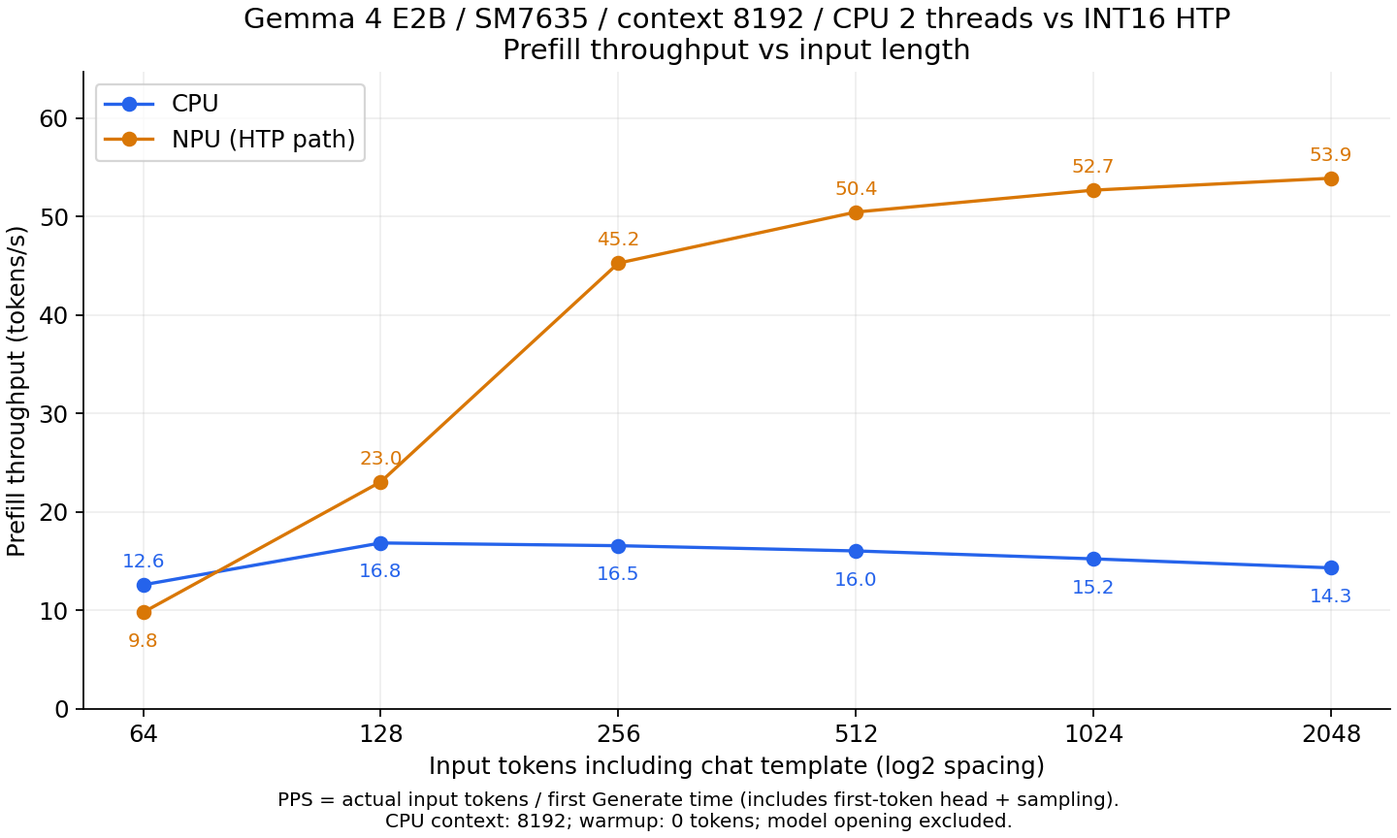
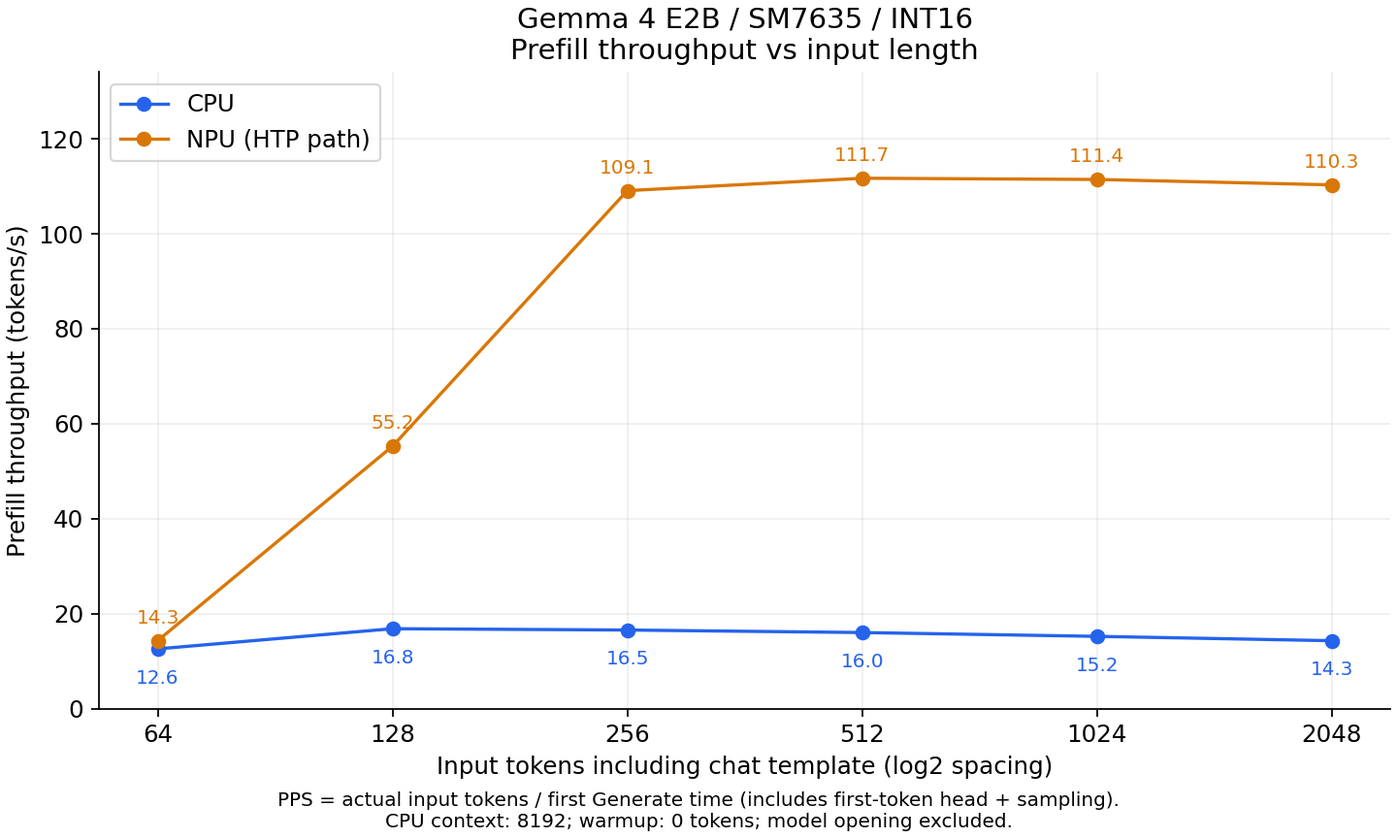
Update QNN benchmark for the PLE frontend release
Reflect the 2026-09-16 production package, which runs the dense PLE
frontend inside each QNN transformer graph: new decode, prefill, VLM and
audio numbers with the regenerated charts, and the prefill speedup in the
overview raised to up to 19x.

Refresh the published model sizes from the re-uploaded packages, note the
PLE placement in the architecture section, and drop the 8K context
section, which was not remeasured for this package.

diff --git a/llm/qnn.html b/llm/qnn.html
@@ -91,7 +91,7 @@ j=d.createElement(s),dl=l!='dataLayer'?'&l='+l:'';j.async=true;j.src=
   <div class="guide-content">
 
     <h2>概要</h2>
-    <p>ailia LLM 1.5.0 以降は Qualcomm SoC の NPU（Hexagon）を使用した高速推論に対応しています。NPU 向けには、llama.cpp とは異なるアイリア社独自の実装を搭載しており、Android 端末上で Prefill を最大 14 倍高速化できます（Snapdragon 8+ Gen 1、2,048 トークン入力時の同端末 CPU 比）。テキストの LLM だけでなく、画像を入力する VLM（Vision Language Model）や音声入力にも対応し、NPU で処理できます。</p>
+    <p>ailia LLM 1.5.0 以降は Qualcomm SoC の NPU（Hexagon）を使用した高速推論に対応しています。NPU 向けには、llama.cpp とは異なるアイリア社独自の実装を搭載しており、Android 端末上で Prefill を最大 19 倍高速化できます（Snapdragon 8+ Gen 1、2,048 トークン入力時の同端末 CPU 比）。テキストの LLM だけでなく、画像を入力する VLM（Vision Language Model）や音声入力にも対応し、NPU で処理できます。</p>
     <p>QNN（Qualcomm AI Engine Direct）は Qualcomm が提供するバックエンド API です。ailia LLMでは、llama.cppのモデル形式であるGGUFを、QNNで実行可能な形式に変換することで、NPUでの推論を実現しています。</p>
     <div class="note">
       <strong>注意:</strong> QNN バックエンドは ailia LLM 1.5.0 以降で利用できます。
@@ -157,10 +157,10 @@ j=d.createElement(s),dl=l!='dataLayer'?'&l='+l:'';j.async=true;j.src=
     <div class="table-wrap">
     <table class="version-table">
       <tr><th>SoC</th><th>端末の例</th><th>ファイル</th><th>内容</th><th>サイズ</th></tr>
-      <tr><td rowspan="2">sm8475<br>（Hexagon v69 / FP16）</td><td rowspan="2">Snapdragon 8+ Gen 1</td><td><a href="https://storage.googleapis.com/ailia-models/gemma/qnn/v1.5.0/gemma4-e2b-sm8475.qnn">gemma4-e2b-sm8475.qnn</a></td><td>テキストモデル（Prefill + Decode）</td><td class="num">3.62 GB</td></tr>
+      <tr><td rowspan="2">sm8475<br>（Hexagon v69 / FP16）</td><td rowspan="2">Snapdragon 8+ Gen 1</td><td><a href="https://storage.googleapis.com/ailia-models/gemma/qnn/v1.5.0/gemma4-e2b-sm8475.qnn">gemma4-e2b-sm8475.qnn</a></td><td>テキストモデル（Prefill + Decode）</td><td class="num">3.60 GB</td></tr>
       <tr><td><a href="https://storage.googleapis.com/ailia-models/gemma/qnn/v1.5.0/gemma4-e2b-sm8475-mmproj.qnn">gemma4-e2b-sm8475-mmproj.qnn</a></td><td>画像 / 音声エンコーダ（mmproj）</td><td class="num">1.11 GB</td></tr>
-      <tr><td rowspan="2">sm7635<br>（Hexagon v73 / Int16）</td><td rowspan="2">Snapdragon 7s Gen 3</td><td><a href="https://storage.googleapis.com/ailia-models/gemma/qnn/v1.5.0/gemma4-e2b-sm7635.qnn">gemma4-e2b-sm7635.qnn</a></td><td>テキストモデル（Prefill + Decode）</td><td class="num">3.60 GB</td></tr>
-      <tr><td><a href="https://storage.googleapis.com/ailia-models/gemma/qnn/v1.5.0/gemma4-e2b-sm7635-mmproj.qnn">gemma4-e2b-sm7635-mmproj.qnn</a></td><td>画像 / 音声エンコーダ（mmproj）</td><td class="num">0.73 GB</td></tr>
+      <tr><td rowspan="2">sm7635<br>（Hexagon v73 / Int16）</td><td rowspan="2">Snapdragon 7s Gen 3</td><td><a href="https://storage.googleapis.com/ailia-models/gemma/qnn/v1.5.0/gemma4-e2b-sm7635.qnn">gemma4-e2b-sm7635.qnn</a></td><td>テキストモデル（Prefill + Decode）</td><td class="num">3.57 GB</td></tr>
+      <tr><td><a href="https://storage.googleapis.com/ailia-models/gemma/qnn/v1.5.0/gemma4-e2b-sm7635-mmproj.qnn">gemma4-e2b-sm7635-mmproj.qnn</a></td><td>画像 / 音声エンコーダ（mmproj）</td><td class="num">0.63 GB</td></tr>
     </table>
     </div>
     <p>いずれも ailia LLM 1.5.0（QAIRT 2.47.0.260601）向けで、コンテキスト長は 8192、AR-256 / AR-1 構成です。</p>
@@ -205,7 +205,7 @@ llm.openMultimodalProjectorFile(mmprojQnnPath) // VLM のみ</code></pre>
     <p><a href="https://github.com/ailia-ai/ailia-models-kotlin/releases/tag/v260720" target="_blank">https://github.com/ailia-ai/ailia-models-kotlin/releases/tag/v260720（TBD）</a></p>
 
     <h2>アーキテクチャ</h2>
-    <p>ailia LLM は QNN Model を mmap で読み込み、QNN Context を復元して Hexagon NPU（HTP）上で実行します。Prefill は固定長の AR-N グラフで処理し、プロンプトが AR の倍数でない場合は最後のスライスをパディングします。Decode は同じ Context 内の AR-1 グラフで処理し、Prefill 後の KV キャッシュのコピーは発生しません。VLM では画像のパッチ化と位置埋め込みを CPU で行い、16 層の Vision Transformer からプーリング、プロジェクションまでを 1 つの QNN グラフで実行します。音声入力には Audio グラフを使用し、音声エンコーダを NPU で実行します。</p>
+    <p>ailia LLM は QNN Model を mmap で読み込み、QNN Context を復元して Hexagon NPU（HTP）上で実行します。Prefill は固定長の AR-N グラフで処理し、プロンプトが AR の倍数でない場合は最後のスライスをパディングします。Decode は同じ Context 内の AR-1 グラフで処理し、Prefill 後の KV キャッシュのコピーは発生しません。VLM では画像のパッチ化と位置埋め込みを CPU で行い、16 層の Vision Transformer からプーリング、プロジェクションまでを 1 つの QNN グラフで実行します。音声入力には Audio グラフを使用し、音声エンコーダを NPU で実行します。また、層別トークン埋め込み（PLE）のフロントエンドも各 Transformer グラフ内で実行し、CPU 側にはトークン行の参照とメディア埋め込みの差し替えのみを残しています。これにより、入力処理を CPU で行う場合に比べて Int16 モデルの Prefill が改善します。</p>
     <div class="arch-side">
       <div class="arch-group">
         <div class="arch-group-title">QNN Model（.qnn）<small>SoC 固有・自己完結のモデルファイル</small></div>
@@ -235,7 +235,7 @@ llm.openMultimodalProjectorFile(mmprojQnnPath) // VLM のみ</code></pre>
     </div>
 
     <h2>ベンチマーク</h2>
-    <p>Gemma 4 E2B を 2 機種で測定した結果です。Snapdragon 8+ Gen 1（SM8475 / Hexagon v69、ASUS AI2202）は FP16 モデル、Snapdragon 7s Gen 3（SM7635 / Hexagon v73）は Int16 モデルを使用しています。いずれも QAIRT 2.47.0.260601、コンテキスト長 8192、Q4_0 入力、AR-256 / AR-1 構成です。CPU は同じ端末上の llama.cpp 互換の CPU 実装（GGUF、2 スレッド）を使用しています。</p>
+    <p>Gemma 4 E2B を 2 機種で測定した結果です。Snapdragon 8+ Gen 1（SM8475 / Hexagon v69、ASUS AI2202）は FP16 モデル、Snapdragon 7s Gen 3（SM7635 / Hexagon v73）は Int16 モデルを使用しています。いずれも QAIRT 2.47.0.260601、コンテキスト長 8192、Q4_0 入力、AR-256 / AR-1 構成です。CPU は同じ端末上の llama.cpp 互換の CPU 実装（GGUF、2 スレッド）を使用しています。NPU の値は 2026-09-16 の量産パッケージ（PLE フロントエンドを NPU 側で実行）での測定です。</p>
     <div class="note">
       <strong>注意:</strong> 2 機種は SoC も量子化方式も異なるため、両者の差を量子化方式だけの差とみなすことはできません。各測定は 1 試行の値であり、複数回の平均ではありません。
     </div>
@@ -245,8 +245,8 @@ llm.openMultimodalProjectorFile(mmprojQnnPath) // VLM のみ</code></pre>
     <div class="table-wrap">
     <table class="version-table">
       <tr><th>端末</th><th>モデル</th><th>CPU</th><th>NPU（QNN）</th><th>NPU / CPU</th></tr>
-      <tr><td>SM8475（Hexagon v69）</td><td>FP16</td><td class="num">8.340 tokens/s</td><td class="num">7.536 tokens/s</td><td class="num">0.90 倍</td></tr>
-      <tr><td>SM7635（Hexagon v73）</td><td>Int16</td><td class="num">7.851 tokens/s</td><td class="num">6.473 tokens/s</td><td class="num">0.82 倍</td></tr>
+      <tr><td>SM8475（Hexagon v69）</td><td>FP16</td><td class="num">8.340 tokens/s</td><td class="num">7.843 tokens/s</td><td class="num">0.94 倍</td></tr>
+      <tr><td>SM7635（Hexagon v73）</td><td>Int16</td><td class="num">7.851 tokens/s</td><td class="num">6.883 tokens/s</td><td class="num">0.88 倍</td></tr>
     </table>
     </div>
     <p>この条件では、いずれの端末でも Decode は CPU の方が高速です。Decode は 1 トークンずつ処理するため重みの読み出しが支配的で、NPU の並列演算性能を活かしにくいことによります。</p>
@@ -265,18 +265,18 @@ llm.openMultimodalProjectorFile(mmprojQnnPath) // VLM のみ</code></pre>
     <div class="table-wrap">
     <table class="version-table">
       <tr><th>入力トークン数</th><th>SM8475 CPU</th><th>SM8475 NPU（FP16）</th><th>SM7635 CPU</th><th>SM7635 NPU（Int16）</th></tr>
-      <tr><td class="num">64</td><td class="num">14.870</td><td class="num">17.210</td><td class="num">12.571</td><td class="num">9.775</td></tr>
-      <tr><td class="num">128</td><td class="num">21.505</td><td class="num">72.384</td><td class="num">16.822</td><td class="num">23.033</td></tr>
-      <tr><td class="num">256</td><td class="num">21.214</td><td class="num">142.785</td><td class="num">16.544</td><td class="num">45.248</td></tr>
-      <tr><td class="num">512</td><td class="num">20.454</td><td class="num">188.090</td><td class="num">16.013</td><td class="num">50.435</td></tr>
-      <tr><td class="num">1024</td><td class="num">18.662</td><td class="num">206.170</td><td class="num">15.208</td><td class="num">52.660</td></tr>
-      <tr><td class="num">2048</td><td class="num">14.549</td><td class="num">214.491</td><td class="num">14.295</td><td class="num">53.870</td></tr>
+      <tr><td class="num">64</td><td class="num">14.870</td><td class="num">23.978</td><td class="num">12.571</td><td class="num">14.296</td></tr>
+      <tr><td class="num">128</td><td class="num">21.505</td><td class="num">147.489</td><td class="num">16.822</td><td class="num">55.247</td></tr>
+      <tr><td class="num">256</td><td class="num">21.214</td><td class="num">265.230</td><td class="num">16.544</td><td class="num">109.083</td></tr>
+      <tr><td class="num">512</td><td class="num">20.454</td><td class="num">286.695</td><td class="num">16.013</td><td class="num">111.699</td></tr>
+      <tr><td class="num">1024</td><td class="num">18.662</td><td class="num">293.811</td><td class="num">15.208</td><td class="num">111.440</td></tr>
+      <tr><td class="num">2048</td><td class="num">14.549</td><td class="num">286.029</td><td class="num">14.295</td><td class="num">110.301</td></tr>
     </table>
     </div>
     <ul>
       <li>Prefill のスループットは <code>実入力トークン数 / 最初の生成呼び出し時間</code> です。ウォームアップは行っておらず、初回の遅延を含みます。</li>
       <li>短い入力から長い入力へ順に測定しているため、64 トークンの結果は後続の条件と初期状態が異なります。</li>
-      <li>2,048 トークン入力では、SM8475 で CPU の約 14.7 倍、SM7635 で約 3.8 倍のスループットです。</li>
+      <li>2,048 トークン入力では、SM8475 で CPU の約 19.7 倍、SM7635 で約 7.7 倍のスループットです。</li>
     </ul>
 
     <figure class="bench-figure">
@@ -289,42 +289,30 @@ llm.openMultimodalProjectorFile(mmprojQnnPath) // VLM のみ</code></pre>
     </figure>
 
     <h3>VLM（画像入力）の応答時間</h3>
-    <p>同一の 768x768 画像 10 枚（画像 256 + テキスト 62 = 318 入力トークン）の中央値です。TTFT は画像エンコーダを含むプロンプト設定と最初の生成呼び出しの合計で、モデルのオープンは含みません。CPU 側は Decoder が 2 スレッド、画像エンコーダは既定のコア数で動作しています。</p>
+    <p>同一の 768x768 画像 10 枚（画像 256 + テキスト 62 = 318 入力トークン、各 100 トークン出力）の中央値です。TTFT は画像エンコーダを含むプロンプト設定と最初の生成呼び出しの合計で、モデルのオープンは含みません。CPU 側は Decoder が 2 スレッド、画像エンコーダは既定のコア数で動作しています。</p>
     <div class="table-wrap">
     <table class="version-table">
       <tr><th>端末・経路</th><th>TTFT（中央値）</th><th>Decode（中央値）</th></tr>
       <tr><td>SM8475 CPU</td><td class="num">137.37 秒</td><td class="num">6.60 tokens/s</td></tr>
-      <tr><td>SM8475 NPU（FP16）</td><td class="num">9.51 秒</td><td class="num">6.91 tokens/s</td></tr>
+      <tr><td>SM8475 NPU（FP16）</td><td class="num">6.57 秒</td><td class="num">7.69 tokens/s</td></tr>
       <tr><td>SM7635 CPU</td><td class="num">105.18 秒</td><td class="num">7.93 tokens/s</td></tr>
-      <tr><td>SM7635 NPU（Int16）</td><td class="num">25.82 秒</td><td class="num">6.20 tokens/s</td></tr>
+      <tr><td>SM7635 NPU（Int16）</td><td class="num">9.83 秒</td><td class="num">6.98 tokens/s</td></tr>
     </table>
     </div>
-    <p>画像入力の TTFT は、SM8475 で約 14.4 倍、SM7635 で約 4.1 倍短縮されます。各画像 1 試行の測定であり、CPU と NPU は別試行のため厳密な同時条件の A/B ではありません。</p>
+    <p>画像入力の TTFT は、SM8475 で約 20.9 倍、SM7635 で約 10.7 倍短縮されます。各画像 1 試行の測定であり、CPU と NPU は別試行のため厳密な同時条件の A/B ではありません。CPU の値は 2026-09-13 の測定で、CPU 実行経路は変更していません。</p>
 
     <h3>音声入力の応答時間</h3>
-    <p>FLEURS の 10 録音（5 言語 各 2 件）の中央値です。TTFT は音声エンコーダを含むプロンプト設定と最初の生成呼び出しの合計で、モデルのオープンは含みません。CPU 側は Decoder が 2 スレッド、音声エンコーダは既定のコア数で動作しています。</p>
+    <p>FLEURS の 10 録音（5 言語 各 2 件、自然な EOS まで生成し上限 256 トークン）の中央値です。TTFT は音声エンコーダを含むプロンプト設定と最初の生成呼び出しの合計で、モデルのオープンは含みません。CPU 側は Decoder が 2 スレッド、音声エンコーダは既定のコア数で動作しています。</p>
     <div class="table-wrap">
     <table class="version-table">
       <tr><th>端末・経路</th><th>TTFT（中央値）</th><th>Decode（中央値）</th><th>出力トークン数</th></tr>
       <tr><td>SM8475 CPU</td><td class="num">49.32 秒</td><td class="num">7.68 tokens/s</td><td class="num">21〜91</td></tr>
-      <tr><td>SM8475 NPU（FP16）</td><td class="num">8.37 秒</td><td class="num">6.86 tokens/s</td><td class="num">21〜60</td></tr>
+      <tr><td>SM8475 NPU（FP16）</td><td class="num">8.08 秒</td><td class="num">7.19 tokens/s</td><td class="num">21〜60</td></tr>
       <tr><td>SM7635 CPU</td><td class="num">45.65 秒</td><td class="num">7.92 tokens/s</td><td class="num">21〜91</td></tr>
-      <tr><td>SM7635 NPU（Int16）</td><td class="num">13.98 秒</td><td class="num">5.89 tokens/s</td><td class="num">21〜61</td></tr>
+      <tr><td>SM7635 NPU（Int16）</td><td class="num">9.29 秒</td><td class="num">6.54 tokens/s</td><td class="num">21〜90</td></tr>
     </table>
     </div>
-    <p>音声入力の TTFT は、SM8475 で約 5.9 倍、SM7635 で約 3.3 倍短縮されます。生成される文と出力長は経路ごとに異なるため、TTFT 以外の値は同一出力に対する比較ではありません。CPU と NPU は別試行の測定であり、同時条件の A/B ではありません。</p>
-
-    <h3>8K コンテキストでの実行</h3>
-    <p>7,936 トークン入力 + 256 トークン出力を各端末で 2 回実行した結果です。全 4 試行で指定トークン数を完走しています。</p>
-    <div class="table-wrap">
-    <table class="version-table">
-      <tr><th>端末</th><th>試行</th><th>Prefill</th><th>Decode</th></tr>
-      <tr><td>SM8475（FP16）</td><td class="num">1</td><td class="num">218.956 tokens/s</td><td class="num">7.485 tokens/s</td></tr>
-      <tr><td>SM8475（FP16）</td><td class="num">2</td><td class="num">200.439 tokens/s</td><td class="num">7.509 tokens/s</td></tr>
-      <tr><td>SM7635（Int16）</td><td class="num">1</td><td class="num">54.931 tokens/s</td><td class="num">6.444 tokens/s</td></tr>
-      <tr><td>SM7635（Int16）</td><td class="num">2</td><td class="num">55.082 tokens/s</td><td class="num">6.495 tokens/s</td></tr>
-    </table>
-    </div>
+    <p>音声入力の TTFT は、SM8475 で約 6.1 倍、SM7635 で約 4.9 倍短縮されます。生成される文と出力長は経路ごとに異なるため、TTFT 以外の値は同一出力に対する比較ではありません。CPU と NPU は別試行の測定であり、同時条件の A/B ではありません。</p>
 
     <h2>制約</h2>
     <ul>

diff --git a/en/llm/qnn.html b/en/llm/qnn.html
@@ -91,7 +91,7 @@ j=d.createElement(s),dl=l!='dataLayer'?'&l='+l:'';j.async=true;j.src=
   <div class="guide-content">
 
     <h2>Overview</h2>
-    <p>ailia LLM 1.5.0 and later support fast inference on the NPU (Hexagon) of Qualcomm SoCs. For the NPU, ailia LLM uses a proprietary implementation developed by ailia Inc. that is separate from llama.cpp, and it accelerates prefill by up to 14x on Android devices (Snapdragon 8+ Gen 1, 2,048-token input, compared with the CPU on the same device). In addition to text LLMs and VLMs (Vision Language Models) that take images as input, ailia LLM also supports audio input, with processing on the NPU.</p>
+    <p>ailia LLM 1.5.0 and later support fast inference on the NPU (Hexagon) of Qualcomm SoCs. For the NPU, ailia LLM uses a proprietary implementation developed by ailia Inc. that is separate from llama.cpp, and it accelerates prefill by up to 19x on Android devices (Snapdragon 8+ Gen 1, 2,048-token input, compared with the CPU on the same device). In addition to text LLMs and VLMs (Vision Language Models) that take images as input, ailia LLM also supports audio input, with processing on the NPU.</p>
     <p>QNN (Qualcomm AI Engine Direct) is a backend API provided by Qualcomm. ailia LLM achieves NPU inference by converting GGUF, the model format of llama.cpp, into a format that can be executed by QNN.</p>
     <div class="note">
       <strong>Note:</strong> The QNN backend is available in ailia LLM 1.5.0 and later.
@@ -158,10 +158,10 @@ j=d.createElement(s),dl=l!='dataLayer'?'&l='+l:'';j.async=true;j.src=
     <div class="table-wrap">
     <table class="version-table">
       <tr><th>SoC</th><th>Example device</th><th>File</th><th>Contents</th><th>Size</th></tr>
-      <tr><td rowspan="2">sm8475<br>(Hexagon v69 / FP16)</td><td rowspan="2">Snapdragon 8+ Gen 1</td><td><a href="https://storage.googleapis.com/ailia-models/gemma/qnn/v1.5.0/gemma4-e2b-sm8475.qnn">gemma4-e2b-sm8475.qnn</a></td><td>Text model (prefill + decode)</td><td class="num">3.62 GB</td></tr>
+      <tr><td rowspan="2">sm8475<br>(Hexagon v69 / FP16)</td><td rowspan="2">Snapdragon 8+ Gen 1</td><td><a href="https://storage.googleapis.com/ailia-models/gemma/qnn/v1.5.0/gemma4-e2b-sm8475.qnn">gemma4-e2b-sm8475.qnn</a></td><td>Text model (prefill + decode)</td><td class="num">3.60 GB</td></tr>
       <tr><td><a href="https://storage.googleapis.com/ailia-models/gemma/qnn/v1.5.0/gemma4-e2b-sm8475-mmproj.qnn">gemma4-e2b-sm8475-mmproj.qnn</a></td><td>Image / audio encoder (mmproj)</td><td class="num">1.11 GB</td></tr>
-      <tr><td rowspan="2">sm7635<br>(Hexagon v73 / Int16)</td><td rowspan="2">Snapdragon 7s Gen 3</td><td><a href="https://storage.googleapis.com/ailia-models/gemma/qnn/v1.5.0/gemma4-e2b-sm7635.qnn">gemma4-e2b-sm7635.qnn</a></td><td>Text model (prefill + decode)</td><td class="num">3.60 GB</td></tr>
-      <tr><td><a href="https://storage.googleapis.com/ailia-models/gemma/qnn/v1.5.0/gemma4-e2b-sm7635-mmproj.qnn">gemma4-e2b-sm7635-mmproj.qnn</a></td><td>Image / audio encoder (mmproj)</td><td class="num">0.73 GB</td></tr>
+      <tr><td rowspan="2">sm7635<br>(Hexagon v73 / Int16)</td><td rowspan="2">Snapdragon 7s Gen 3</td><td><a href="https://storage.googleapis.com/ailia-models/gemma/qnn/v1.5.0/gemma4-e2b-sm7635.qnn">gemma4-e2b-sm7635.qnn</a></td><td>Text model (prefill + decode)</td><td class="num">3.57 GB</td></tr>
+      <tr><td><a href="https://storage.googleapis.com/ailia-models/gemma/qnn/v1.5.0/gemma4-e2b-sm7635-mmproj.qnn">gemma4-e2b-sm7635-mmproj.qnn</a></td><td>Image / audio encoder (mmproj)</td><td class="num">0.63 GB</td></tr>
     </table>
     </div>
     <p>All of these are for ailia LLM 1.5.0 (QAIRT 2.47.0.260601), with a context length of 8192 and the AR-256 / AR-1 configuration.</p>
@@ -206,7 +206,7 @@ llm.openMultimodalProjectorFile(mmprojQnnPath) // VLM only</code></pre>
     <p><a href="https://github.com/ailia-ai/ailia-models-kotlin/releases/tag/v260720" target="_blank">https://github.com/ailia-ai/ailia-models-kotlin/releases/tag/v260720 (TBD)</a></p>
 
     <h2>Architecture</h2>
-    <p>ailia LLM maps the QNN Model with mmap, restores the QNN context, and executes it on the Hexagon NPU (HTP). Prefill is processed with the fixed-length AR-N graph; when the prompt length is not a multiple of AR, the last slice is padded. Decode uses the AR-1 graph in the same context, so no KV cache copy occurs after prefill. For VLM, image patching and position embedding are performed on the CPU, and the 16-layer Vision Transformer, pooling and projection are executed in a single QNN graph. Audio input uses an Audio graph to run the audio encoder on the NPU.</p>
+    <p>ailia LLM maps the QNN Model with mmap, restores the QNN context, and executes it on the Hexagon NPU (HTP). Prefill is processed with the fixed-length AR-N graph; when the prompt length is not a multiple of AR, the last slice is padded. Decode uses the AR-1 graph in the same context, so no KV cache copy occurs after prefill. For VLM, image patching and position embedding are performed on the CPU, and the 16-layer Vision Transformer, pooling and projection are executed in a single QNN graph. Audio input uses an Audio graph to run the audio encoder on the NPU. The per-layer embedding (PLE) frontend also runs inside each transformer graph, leaving only token-row lookup and media embedding replacement on the CPU. This improves prefill for the Int16 model compared with running that input processing on the CPU.</p>
     <div class="arch-side">
       <div class="arch-group">
         <div class="arch-group-title">QNN Model (.qnn)<small>SoC-specific, self-contained model file</small></div>
@@ -236,7 +236,7 @@ llm.openMultimodalProjectorFile(mmprojQnnPath) // VLM only</code></pre>
     </div>
 
     <h2>Benchmark</h2>
-    <p>The following results were measured with Gemma 4 E2B on two devices. Snapdragon 8+ Gen 1 (SM8475 / Hexagon v69, ASUS AI2202) uses the FP16 model, and Snapdragon 7s Gen 3 (SM7635 / Hexagon v73) uses the Int16 model. Both were measured with QAIRT 2.47.0.260601, a context length of 8192, Q4_0 input and the AR-256 / AR-1 configuration. CPU uses the llama.cpp compatible CPU implementation (GGUF, 2 threads) on the same device.</p>
+    <p>The following results were measured with Gemma 4 E2B on two devices. Snapdragon 8+ Gen 1 (SM8475 / Hexagon v69, ASUS AI2202) uses the FP16 model, and Snapdragon 7s Gen 3 (SM7635 / Hexagon v73) uses the Int16 model. Both were measured with QAIRT 2.47.0.260601, a context length of 8192, Q4_0 input and the AR-256 / AR-1 configuration. CPU uses the llama.cpp compatible CPU implementation (GGUF, 2 threads) on the same device. The NPU numbers were measured with the 2026-09-16 production package, which runs the PLE frontend on the NPU.</p>
     <div class="note">
       <strong>Note:</strong> The two devices differ in both SoC and quantization, so the gap between them cannot be attributed to quantization alone. Each number is a single run, not an average of repeated runs.
     </div>
@@ -246,8 +246,8 @@ llm.openMultimodalProjectorFile(mmprojQnnPath) // VLM only</code></pre>
     <div class="table-wrap">
     <table class="version-table">
       <tr><th>Device</th><th>Model</th><th>CPU</th><th>NPU (QNN)</th><th>NPU / CPU</th></tr>
-      <tr><td>SM8475 (Hexagon v69)</td><td>FP16</td><td class="num">8.340 tokens/s</td><td class="num">7.536 tokens/s</td><td class="num">0.90x</td></tr>
-      <tr><td>SM7635 (Hexagon v73)</td><td>Int16</td><td class="num">7.851 tokens/s</td><td class="num">6.473 tokens/s</td><td class="num">0.82x</td></tr>
+      <tr><td>SM8475 (Hexagon v69)</td><td>FP16</td><td class="num">8.340 tokens/s</td><td class="num">7.843 tokens/s</td><td class="num">0.94x</td></tr>
+      <tr><td>SM7635 (Hexagon v73)</td><td>Int16</td><td class="num">7.851 tokens/s</td><td class="num">6.883 tokens/s</td><td class="num">0.88x</td></tr>
     </table>
     </div>
     <p>Under these conditions decode is faster on the CPU on both devices. Decode processes one token at a time, so it is dominated by weight loading and does not benefit much from the parallel compute of the NPU.</p>
@@ -266,18 +266,18 @@ llm.openMultimodalProjectorFile(mmprojQnnPath) // VLM only</code></pre>
     <div class="table-wrap">
     <table class="version-table">
       <tr><th>Input tokens</th><th>SM8475 CPU</th><th>SM8475 NPU (FP16)</th><th>SM7635 CPU</th><th>SM7635 NPU (Int16)</th></tr>
-      <tr><td class="num">64</td><td class="num">14.870</td><td class="num">17.210</td><td class="num">12.571</td><td class="num">9.775</td></tr>
-      <tr><td class="num">128</td><td class="num">21.505</td><td class="num">72.384</td><td class="num">16.822</td><td class="num">23.033</td></tr>
-      <tr><td class="num">256</td><td class="num">21.214</td><td class="num">142.785</td><td class="num">16.544</td><td class="num">45.248</td></tr>
-      <tr><td class="num">512</td><td class="num">20.454</td><td class="num">188.090</td><td class="num">16.013</td><td class="num">50.435</td></tr>
-      <tr><td class="num">1024</td><td class="num">18.662</td><td class="num">206.170</td><td class="num">15.208</td><td class="num">52.660</td></tr>
-      <tr><td class="num">2048</td><td class="num">14.549</td><td class="num">214.491</td><td class="num">14.295</td><td class="num">53.870</td></tr>
+      <tr><td class="num">64</td><td class="num">14.870</td><td class="num">23.978</td><td class="num">12.571</td><td class="num">14.296</td></tr>
+      <tr><td class="num">128</td><td class="num">21.505</td><td class="num">147.489</td><td class="num">16.822</td><td class="num">55.247</td></tr>
+      <tr><td class="num">256</td><td class="num">21.214</td><td class="num">265.230</td><td class="num">16.544</td><td class="num">109.083</td></tr>
+      <tr><td class="num">512</td><td class="num">20.454</td><td class="num">286.695</td><td class="num">16.013</td><td class="num">111.699</td></tr>
+      <tr><td class="num">1024</td><td class="num">18.662</td><td class="num">293.811</td><td class="num">15.208</td><td class="num">111.440</td></tr>
+      <tr><td class="num">2048</td><td class="num">14.549</td><td class="num">286.029</td><td class="num">14.295</td><td class="num">110.301</td></tr>
     </table>
     </div>
     <ul>
       <li>Prefill throughput is <code>actual input tokens / time of the first generate call</code>. No warmup is performed, so the first-call latency is included.</li>
       <li>Conditions are measured from short to long inputs, so the 64-token result starts from a different state than the later ones.</li>
-      <li>With a 2,048-token input, the NPU reaches about 14.7x the CPU throughput on SM8475 and about 3.8x on SM7635.</li>
+      <li>With a 2,048-token input, the NPU reaches about 19.7x the CPU throughput on SM8475 and about 7.7x on SM7635.</li>
     </ul>
 
     <figure class="bench-figure">
@@ -290,42 +290,30 @@ llm.openMultimodalProjectorFile(mmprojQnnPath) // VLM only</code></pre>
     </figure>
 
     <h3>VLM (image input) latency</h3>
-    <p>Medians over the same 10 images at 768x768 (256 image + 62 text = 318 input tokens). TTFT is the prompt setup including the image encoder plus the first generate call, excluding model opening. On the CPU path the decoder uses 2 threads and the image encoder uses the default number of cores.</p>
+    <p>Medians over the same 10 images at 768x768 (256 image + 62 text = 318 input tokens, 100 output tokens each). TTFT is the prompt setup including the image encoder plus the first generate call, excluding model opening. On the CPU path the decoder uses 2 threads and the image encoder uses the default number of cores.</p>
     <div class="table-wrap">
     <table class="version-table">
       <tr><th>Device / path</th><th>TTFT (median)</th><th>Decode (median)</th></tr>
       <tr><td>SM8475 CPU</td><td class="num">137.37 s</td><td class="num">6.60 tokens/s</td></tr>
-      <tr><td>SM8475 NPU (FP16)</td><td class="num">9.51 s</td><td class="num">6.91 tokens/s</td></tr>
+      <tr><td>SM8475 NPU (FP16)</td><td class="num">6.57 s</td><td class="num">7.69 tokens/s</td></tr>
       <tr><td>SM7635 CPU</td><td class="num">105.18 s</td><td class="num">7.93 tokens/s</td></tr>
-      <tr><td>SM7635 NPU (Int16)</td><td class="num">25.82 s</td><td class="num">6.20 tokens/s</td></tr>
+      <tr><td>SM7635 NPU (Int16)</td><td class="num">9.83 s</td><td class="num">6.98 tokens/s</td></tr>
     </table>
     </div>
-    <p>Image TTFT is about 14.4x shorter on SM8475 and about 4.1x shorter on SM7635. Each image was measured once, and the CPU and NPU numbers come from separate runs rather than a strict side-by-side A/B.</p>
+    <p>Image TTFT is about 20.9x shorter on SM8475 and about 10.7x shorter on SM7635. Each image was measured once, and the CPU and NPU numbers come from separate runs rather than a strict side-by-side A/B. The CPU values were measured on 2026-09-13; the CPU execution path is unchanged.</p>
 
     <h3>Audio input latency</h3>
-    <p>Medians over 10 FLEURS recordings (2 each in 5 languages). TTFT is the prompt setup including the audio encoder plus the first generate call, excluding model opening. On the CPU path the decoder uses 2 threads and the audio encoder uses the default number of cores.</p>
+    <p>Medians over 10 FLEURS recordings (2 each in 5 languages, generated to natural EOS with a 256-token cap). TTFT is the prompt setup including the audio encoder plus the first generate call, excluding model opening. On the CPU path the decoder uses 2 threads and the audio encoder uses the default number of cores.</p>
     <div class="table-wrap">
     <table class="version-table">
       <tr><th>Device / path</th><th>TTFT (median)</th><th>Decode (median)</th><th>Output tokens</th></tr>
       <tr><td>SM8475 CPU</td><td class="num">49.32 s</td><td class="num">7.68 tokens/s</td><td class="num">21-91</td></tr>
-      <tr><td>SM8475 NPU (FP16)</td><td class="num">8.37 s</td><td class="num">6.86 tokens/s</td><td class="num">21-60</td></tr>
+      <tr><td>SM8475 NPU (FP16)</td><td class="num">8.08 s</td><td class="num">7.19 tokens/s</td><td class="num">21-60</td></tr>
       <tr><td>SM7635 CPU</td><td class="num">45.65 s</td><td class="num">7.92 tokens/s</td><td class="num">21-91</td></tr>
-      <tr><td>SM7635 NPU (Int16)</td><td class="num">13.98 s</td><td class="num">5.89 tokens/s</td><td class="num">21-61</td></tr>
+      <tr><td>SM7635 NPU (Int16)</td><td class="num">9.29 s</td><td class="num">6.54 tokens/s</td><td class="num">21-90</td></tr>
     </table>
     </div>
-    <p>Audio TTFT is about 5.9x shorter on SM8475 and about 3.3x shorter on SM7635. The generated text and output length differ between paths, so values other than TTFT are not a comparison over identical outputs, and the CPU and NPU numbers come from separate runs rather than a strict side-by-side A/B.</p>
-
-    <h3>8K context run</h3>
-    <p>7,936 input tokens + 256 output tokens, run twice on each device. All four runs completed the specified token counts.</p>
-    <div class="table-wrap">
-    <table class="version-table">
-      <tr><th>Device</th><th>Run</th><th>Prefill</th><th>Decode</th></tr>
-      <tr><td>SM8475 (FP16)</td><td class="num">1</td><td class="num">218.956 tokens/s</td><td class="num">7.485 tokens/s</td></tr>
-      <tr><td>SM8475 (FP16)</td><td class="num">2</td><td class="num">200.439 tokens/s</td><td class="num">7.509 tokens/s</td></tr>
-      <tr><td>SM7635 (Int16)</td><td class="num">1</td><td class="num">54.931 tokens/s</td><td class="num">6.444 tokens/s</td></tr>
-      <tr><td>SM7635 (Int16)</td><td class="num">2</td><td class="num">55.082 tokens/s</td><td class="num">6.495 tokens/s</td></tr>
-    </table>
-    </div>
+    <p>Audio TTFT is about 6.1x shorter on SM8475 and about 4.9x shorter on SM7635. The generated text and output length differ between paths, so values other than TTFT are not a comparison over identical outputs, and the CPU and NPU numbers come from separate runs rather than a strict side-by-side A/B.</p>
 
     <h2>Limitations</h2>
     <ul>
